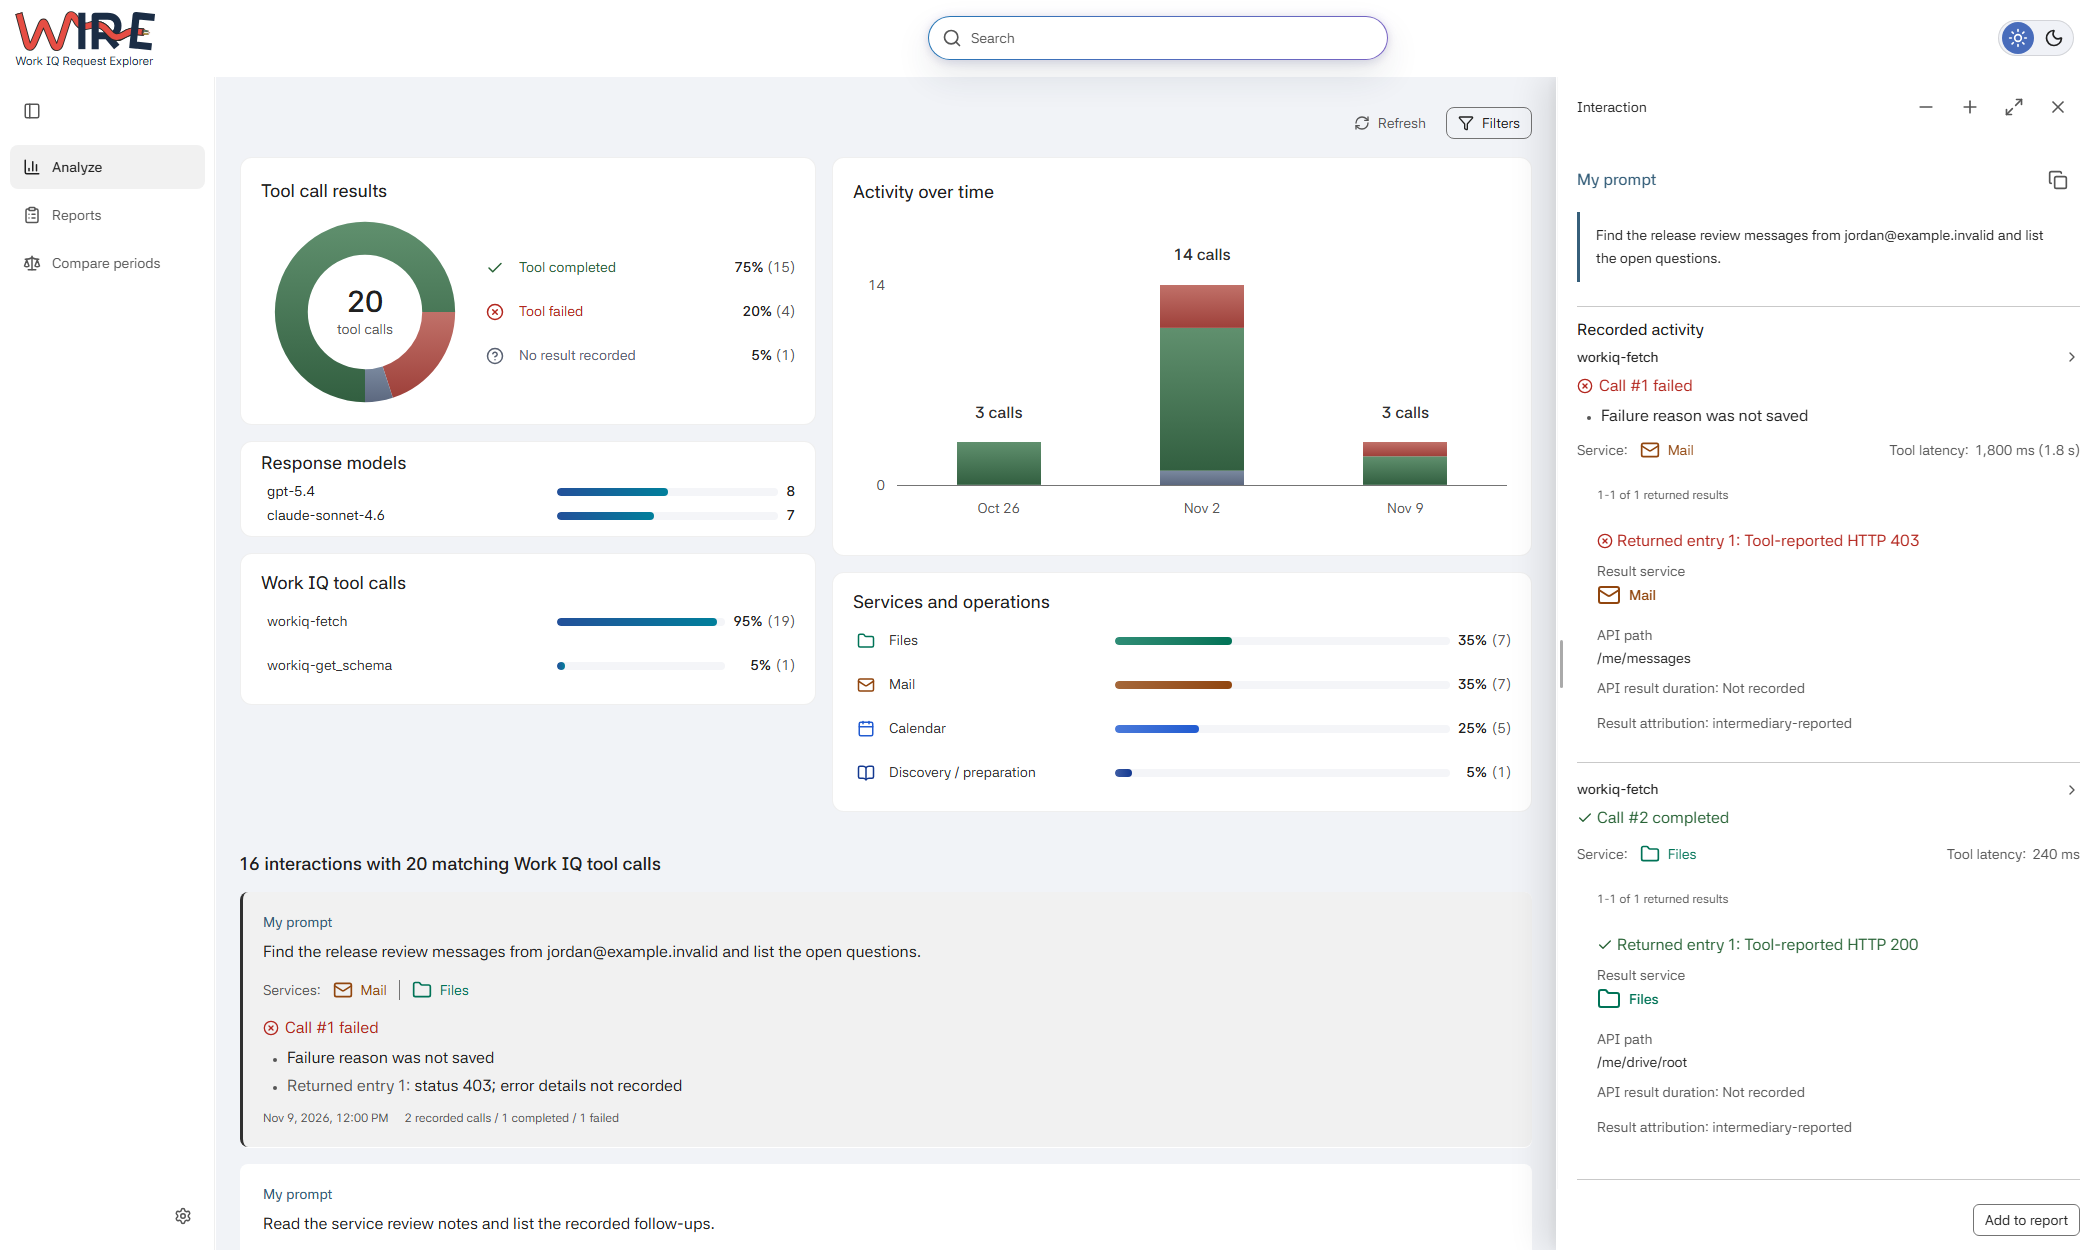
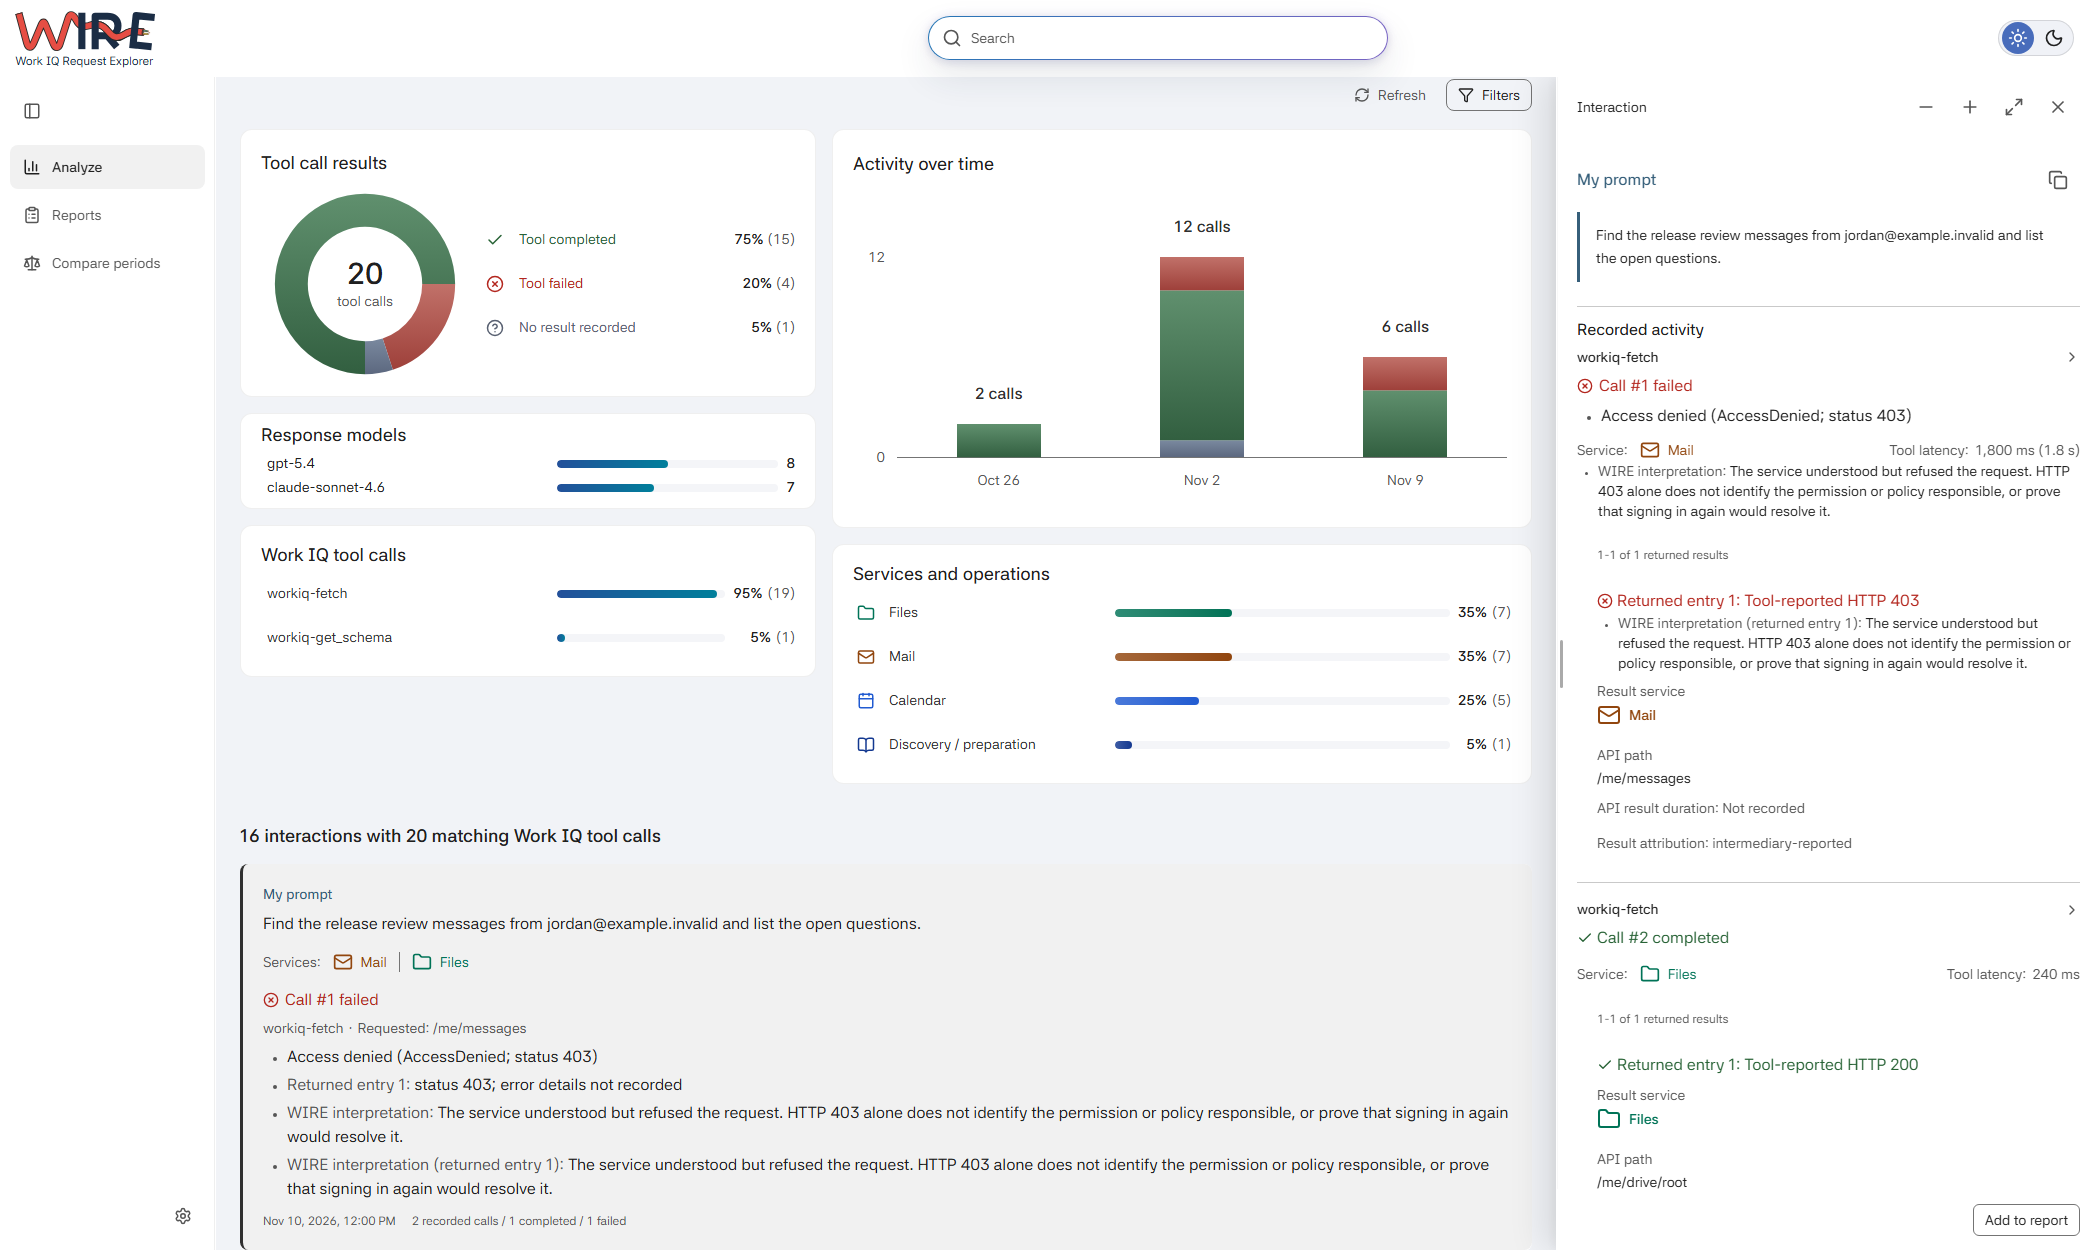
Document recorded outcome explanations
Explain WIRE interpretations, diagnostic privacy, report reader compatibility and the boundary between collector updates and historical repair. Clarify timeout evidence and explanation-only guidance, and refresh the two synthetic error-reading screenshots.

diff --git a/docs/reporting.md b/docs/reporting.md
@@ -28,6 +28,10 @@ Each choice has a help icon available by pointer, keyboard or touch.
 | My prompts | Interactions whose originating prompt is recorded as user-authored. |
 | Agent prompts | Interactions whose originating prompt is recorded as agent-authored. |
 
+If a returned status and its diagnostic disagree, both remain visible. Recorded
+error evidence on either side qualifies for **Errors & failures**; a disagreement
+without an error does not. The tool's recorded completion stays unchanged.
+
 New reports default to **Last 7 days**, including today in the display time
 zone. **Last 14 days**, **Last 30 days** and **Custom dates** are also available.
 Custom dates opens the calendar directly; Cancel leaves the accepted dates
@@ -71,6 +75,11 @@ names, timing or recorded application results remain unavailable, not zero.
 Examples connect permitted prompt copies with recorded calls; they are not
 generated explanations of intent or task success.
 
+**Tool results** lists every call included in the report, including calls with
+no retained diagnostic. **WIRE interpretation** explains supported conditions
+and evidence limits beside those results. It is separate from original error
+text and report-author notes, and does not recommend next steps.
+
 ## Read and adjust
 
 The report shows its period, scope and recorded patterns. An error report
@@ -110,6 +119,10 @@ control, expand **Additional masking**, and enter one exact term per line.
 | Keep chat details | Includes recorded wording in local files. Detected credentials are still removed. |
 | Include linked requests and replies | Adds available, authorized context up to one linked request before and after each included interaction. It is not the whole chat or a reply-saving permission. |
 | Include error messages from the calls | Adds already-retained error details, always masked. Error reports start with it on. It does not add raw response bodies or unrelated source descriptions. |
+
+Masking, edits and omissions still control the diagnostic copies. A fixed WIRE
+interpretation can remain when you leave out error-message text; it does not
+restore the omitted wording or read prompts, replies or arguments.
 
 **Save as** chooses HTML, PDF, JSON or Markdown files; you can select more than
 one. **View** changes what you are reading: **Report** is the readable page,
@@ -167,6 +180,8 @@ it from current activity or silently open another format.
 
 Saved reports retain their frozen facts, text choices and time context.
 Later collection, browsing filters or screen-theme changes do not rewrite them.
+Reopening an older report does not add newer interpretations. New reports need a
+compatible WIRE reader; an older version may refuse to open them.
 The saved list's search finds metadata; global Search can also find supported
 saved-file content. **Back to Reports** restores the list's search, order, page
 and reading position. Page controls are below the saved rows.

diff --git a/docs/user-guide.md b/docs/user-guide.md
@@ -75,13 +75,18 @@ Each call keeps its own result, timing and available error details. Open a
 call's disclosure for exact input; **Source details** holds provenance and
 identifiers. Close or Back returns to the originating results.
 
+**WIRE interpretation** explains a recorded condition or evidence gap separately
+from the source diagnostic. It uses fixed local rules, without AI or provider
+calls, and explains what the evidence establishes without suggesting fixes or
+next steps. A clear source explanation needs no additional interpretation.
+
 Drag the reader's left edge or use its minus/plus buttons to narrow or widen
 it. **Maximize interaction** fills the workspace below the toolbar;
 **Restore reader width** returns to your chosen width while keeping your place.
 **Close interaction** leaves the reader instead. When space is limited, WIRE
 uses a single-pane reader and hides the sizing controls.
 
-![An interaction reader beside its card, showing a failed call and its separately attributed returned HTTP results.](images/interaction.png)
+![An interaction reader showing a retained access-denied diagnostic, a separate WIRE interpretation and the call's recorded operation and timing.](images/interaction.png)
 
 **My prompt**, **Agent prompt** and **Author unverified** describe supported
 origin evidence, not who executed or authorized every call. Choosing My and
@@ -171,6 +176,9 @@ check frequency and Pause. **Refresh** checks approved local history;
 **Read stored activity** only rereads WIRE's retained view. Paused collection
 stays paused after a deliberate local-history check. **Collection status**
 explains missing files, bounded reads and other known coverage gaps.
+
+Collector updates improve supported reads; they do not automatically repair
+older retained activity or rewrite saved reports.
 
 **Account > Sign out of this instance** stops collection and hides saved private
 activity in every tab of that WIRE instance, without deleting it. It does not

diff --git a/docs/report-contract.md b/docs/report-contract.md
@@ -86,8 +86,9 @@ Missing timing remains unavailable, not zero.
 New result observations can include `timingFailure` v1: the saved, qualified
 `request-timeout` signal with `basis: "retained-failure-signal"`. Reports preserve
 it separately from the outer error code and unavailable original error text.
-It means the source recorded MCP -32001, not that WIRE inferred a timeout from
-elapsed time. A timeout does not establish whether the requested work finished.
+The recorded timeout message or its qualified retained signal must establish
+this condition; -32001 or elapsed time alone does not. A timeout does not
+establish whether the requested work finished.
 Existing frozen observations without this extension stay unchanged; Compare
 can identify newly included evidence without calling it a new execution.
 Readers predating this extension cannot read new reports containing it.

diff --git a/README.md b/README.md
@@ -20,7 +20,7 @@ Those real interactions can become the basis for better synthetic eval cases.
 Product teams and customers building agents on Work IQ APIs and MCP can use
 that evidence to test the behaviors people rely on and improve their agents.
 
-[![WIRE showing activity, outcomes, recorded models, tools and services beside an interaction with completed and failed calls.](docs/images/wire-overview.png)](docs/images/wire-overview.png)
+[![WIRE showing activity, recorded outcomes, tools and services beside an interaction with an access-denied diagnostic and a separate WIRE interpretation.](docs/images/wire-overview.png)](docs/images/wire-overview.png)
 
 Search runs on-device without AI or provider calls. Reports save locally as
 HTML, PDF, JSON or Markdown, with detected personal details hidden by default.

diff --git a/docs/interaction-design.md b/docs/interaction-design.md
@@ -115,7 +115,9 @@ its recorded reason on the card and reader, and travels in newly prepared report
 It explains the supported mechanism and remaining unknowns without replacing the
 code, status or full diagnostic. Opening exact evidence keeps that interpretation
 visible. A clear source explanation needs no duplicate glossary paragraph.
-Timeouts carry no automatic retry advice or inferred downstream cause.
+WIRE interpretations do not generate next checks, troubleshooting or remediation
+advice, or messages for product teams. Timeout explanations do not infer a
+downstream cause.
 
 Exact input/provenance disclosure is a separate action. Partial-response
 coverage is separate from failure reasons and matching-call counts.
